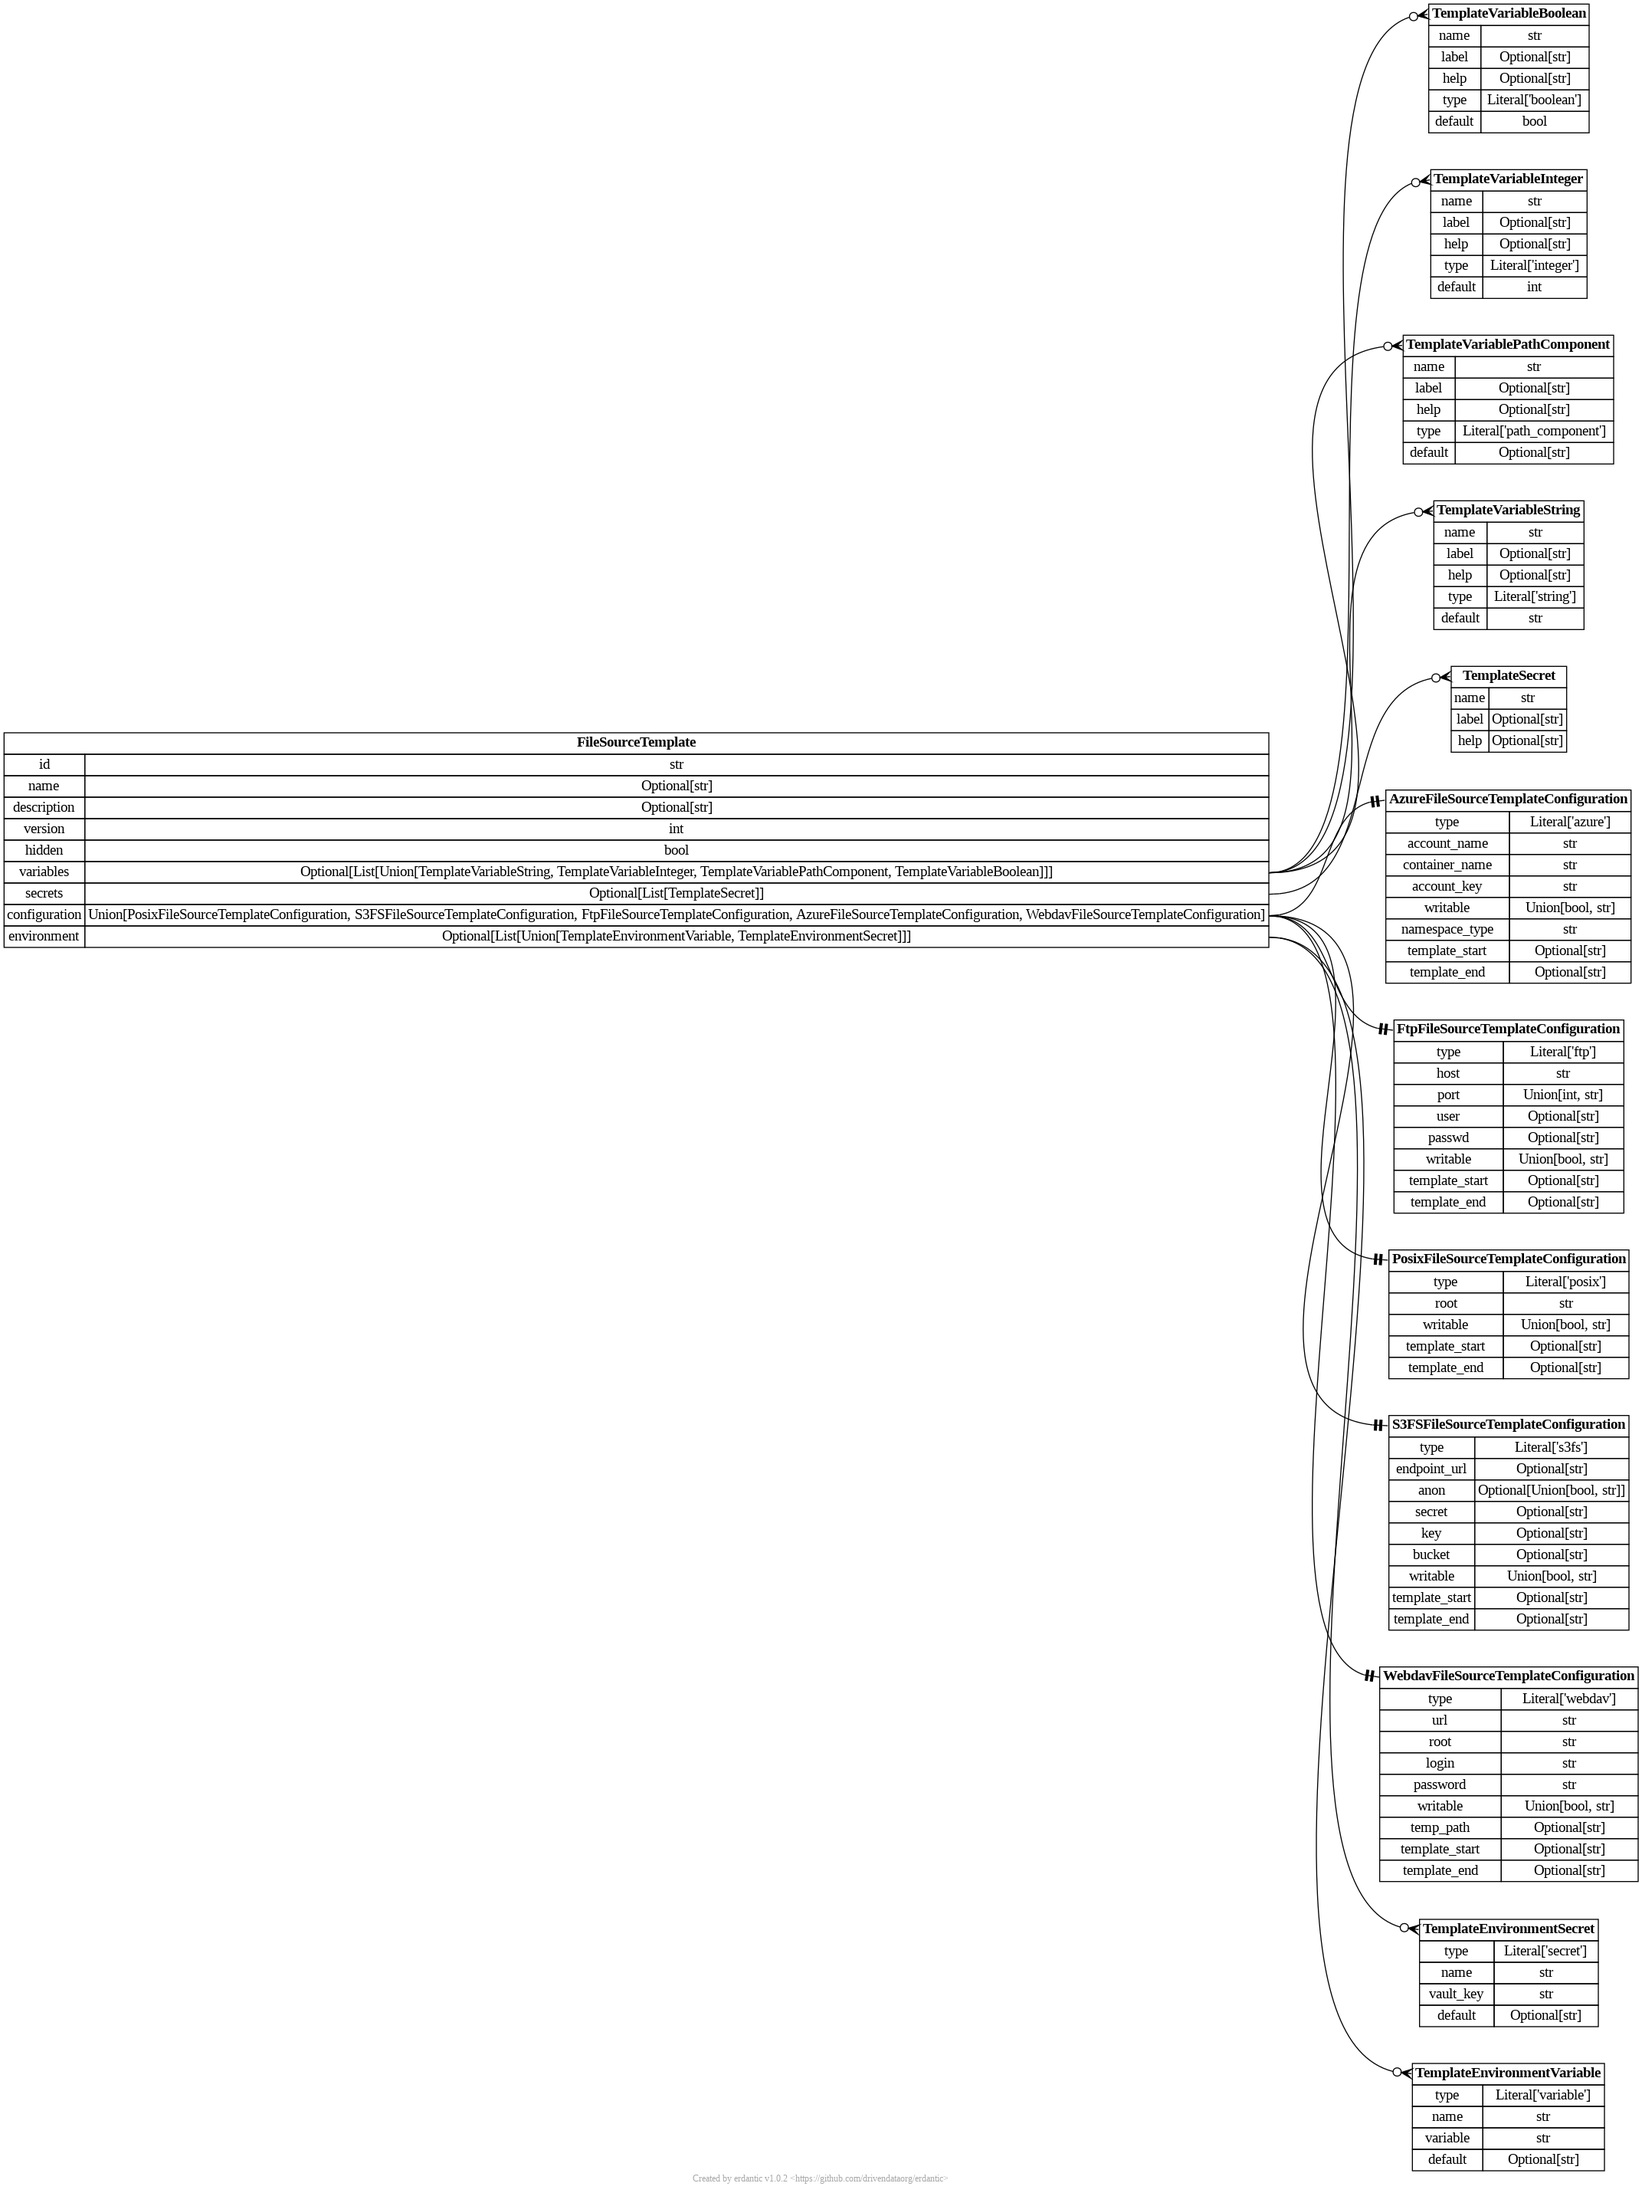
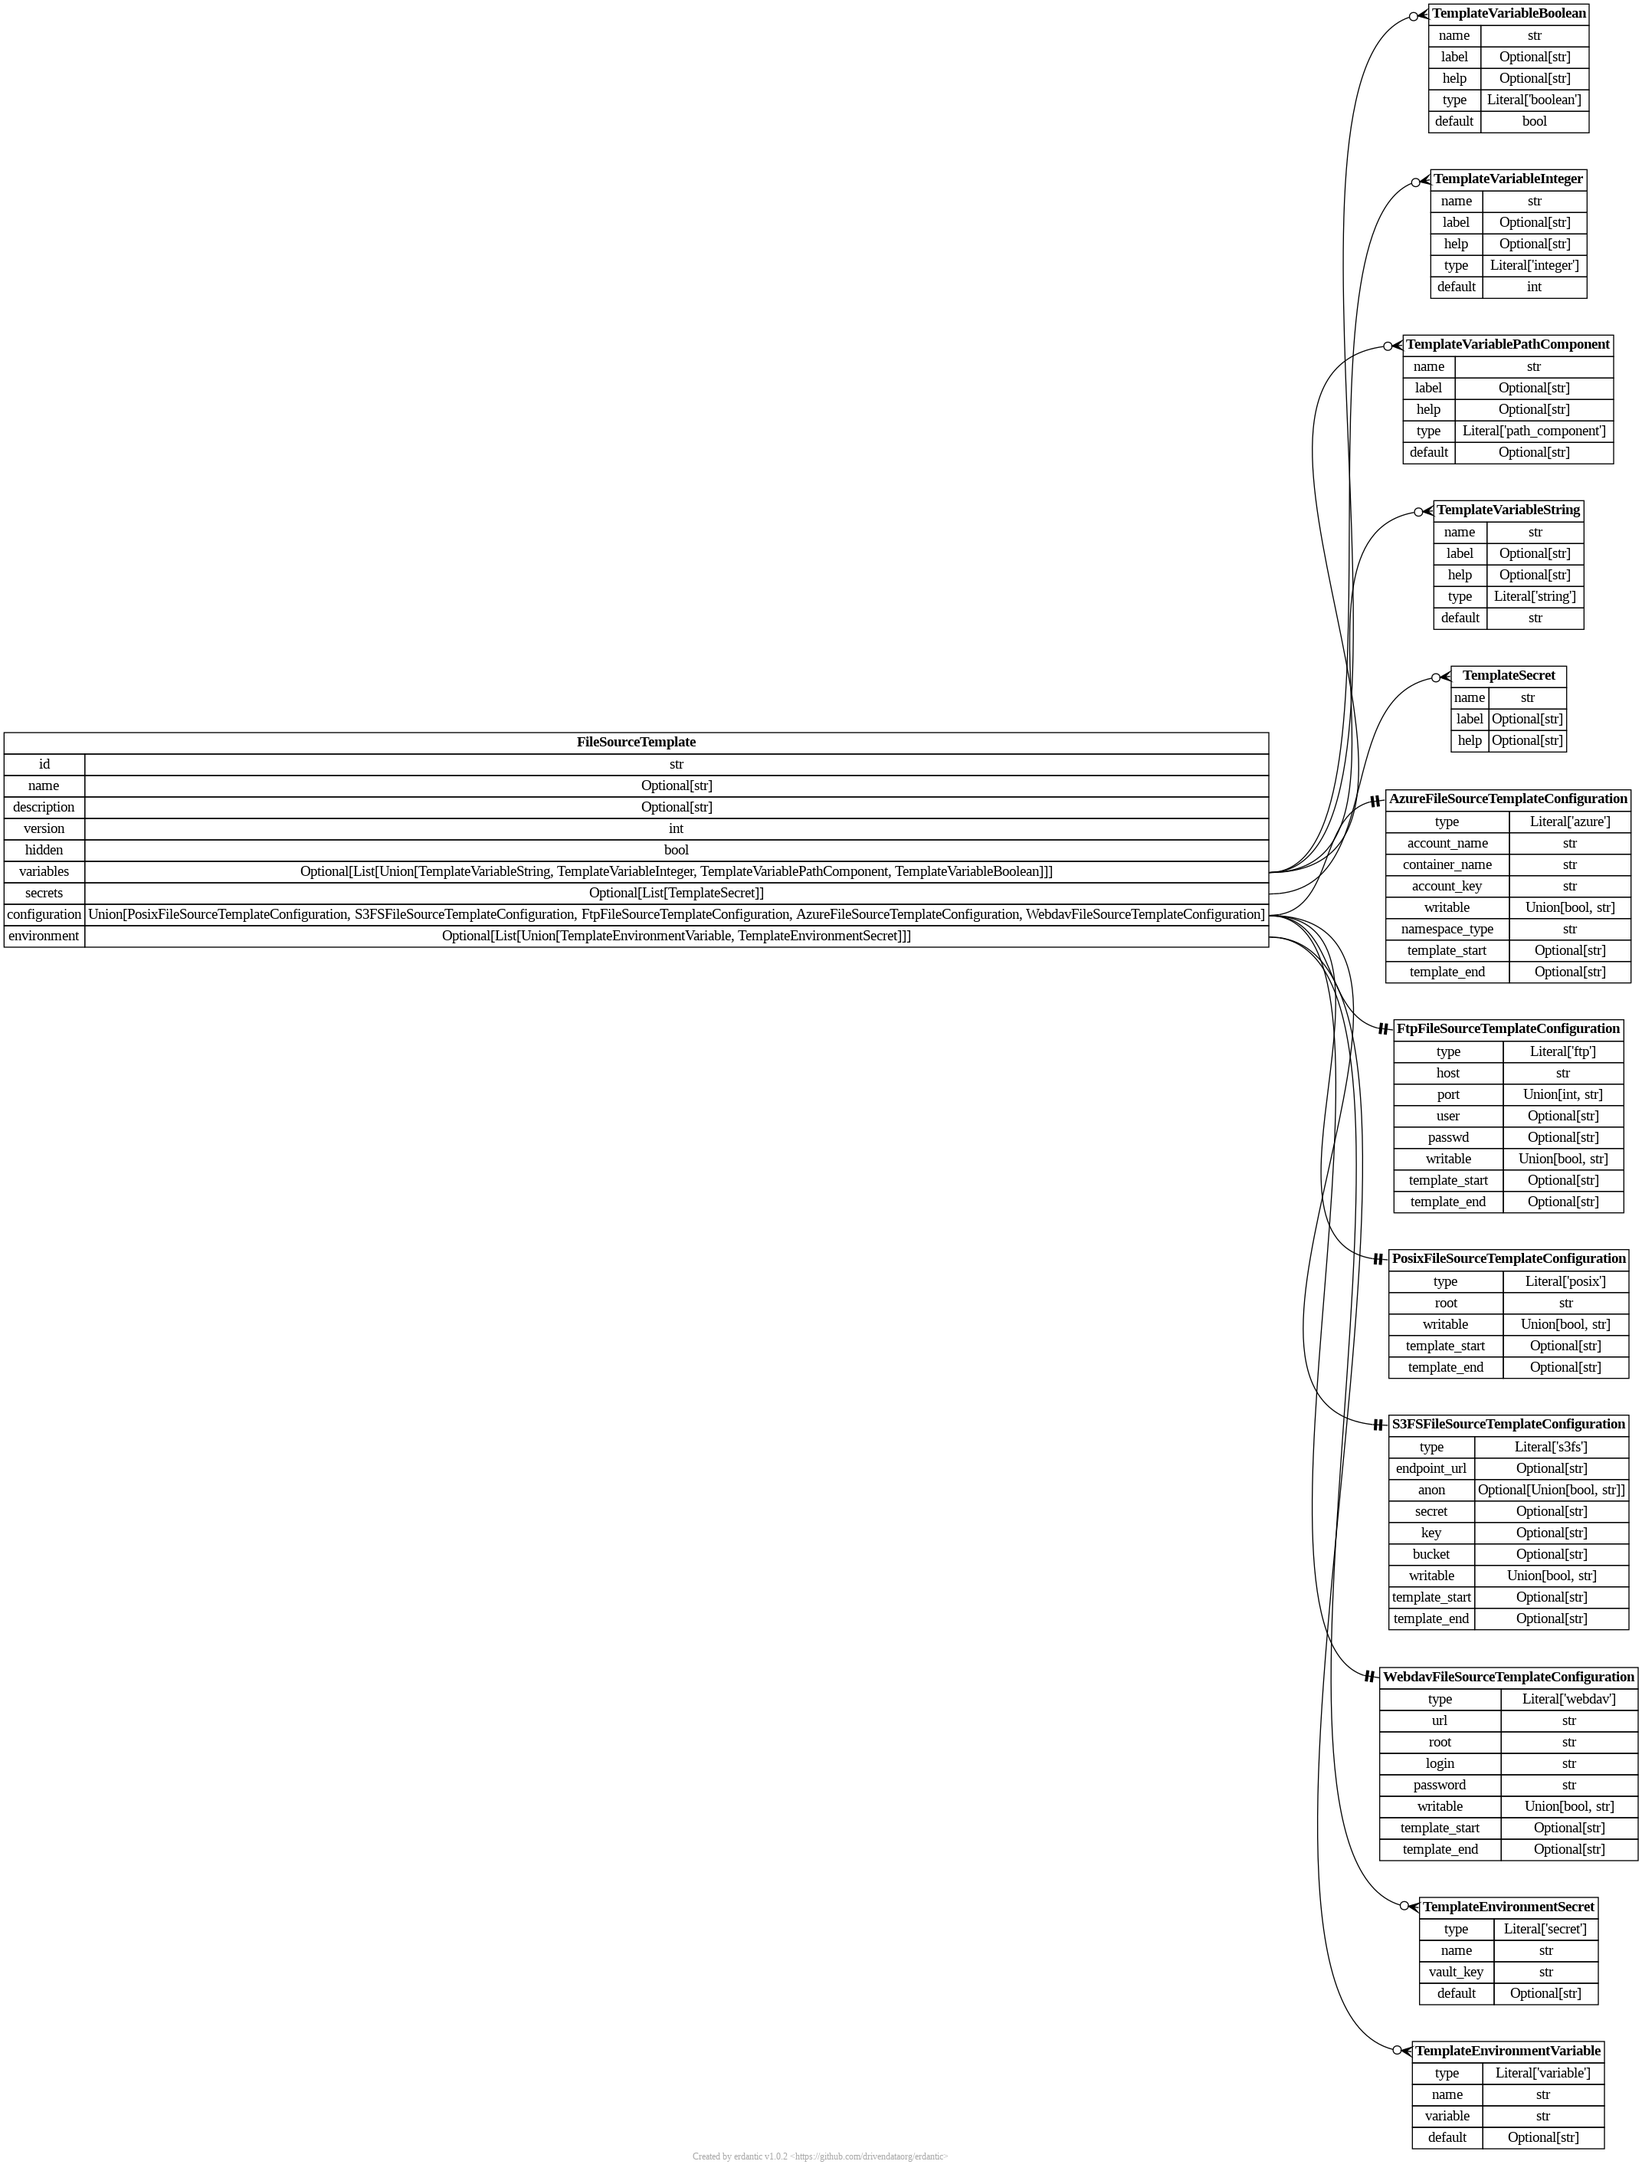
Add new config parameter for file sources temp dir and update the webdav file source

Changed region(s): [[0.0, 0.0, 1.0, 0.994]]

diff --git a/lib/galaxy/files/templates/models.py b/lib/galaxy/files/templates/models.py
@@ -128,7 +128,6 @@ class WebdavFileSourceTemplateConfiguration(StrictModel):
     login: Union[str, TemplateExpansion]
     password: Union[str, TemplateExpansion]
     writable: Union[bool, TemplateExpansion] = False
-    temp_path: Optional[Union[str, TemplateExpansion]] = None
     template_start: Optional[str] = None
     template_end: Optional[str] = None
 
@@ -140,7 +139,6 @@ class WebdavFileSourceConfiguration(StrictModel):
     login: str
     password: str
     writable: bool = False
-    temp_path: Optional[str] = None
 
 
 FileSourceTemplateConfiguration = Union[

diff --git a/lib/galaxy/config/__init__.py b/lib/galaxy/config/__init__.py
@@ -741,6 +741,7 @@ class GalaxyAppConfiguration(BaseAppConfiguration, CommonConfigurationMixin):
     user_tool_section_filters: List[str]
     visualization_plugins_directory: str
     workflow_resource_params_mapper: str
+    file_source_temp_dir: str
 
     def __init__(self, **kwargs):
         super().__init__(**kwargs)

diff --git a/lib/galaxy/files/sources/webdav.py b/lib/galaxy/files/sources/webdav.py
@@ -3,12 +3,13 @@ try:
 except ImportError:
     WebDAVFS = None
 
-import tempfile
 from typing import (
     cast,
     Optional,
     Union,
 )
+
+from typing_extensions import NotRequired
 
 from typing_extensions import NotRequired
 
